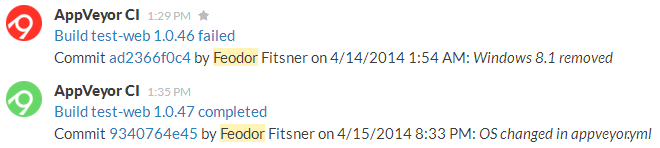
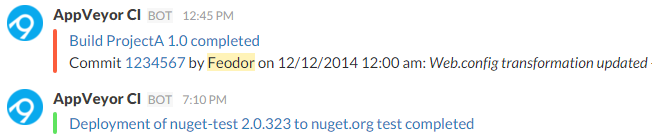
Slack notifications updated

Changed region(s): [[0.0, 0.029, 1.0, 0.5217], [0.0, 0.5217, 1.0, 0.9855]]

diff --git a/NJekyll/site/docs/notifications.md b/NJekyll/site/docs/notifications.md
@@ -7,7 +7,8 @@ title: Build notifications
 
 <!--TOC-->
 
-Build notifications are defined on project level and triggered on build success or fail events. You can configure notification on **Notifications** tab of project settings or in `notifications` section of `appveyor.yml`:
+Build notifications are defined on project level and triggered on build success or fail events.
+You can configure notification on **Notifications** tab of project settings or in `notifications` section of `appveyor.yml`:
 
     notifications:
       - provider: <provider_1>
@@ -138,14 +139,38 @@ Default HipChat message template:
 
 ## Slack
 
-Slack notification nicely differentiates between passed and failed builds by changing color of AppVeyor logo:
+Slack sends notifications as message attachments which allows differentiating successful/failed builds/deployments with color.
 
 ![slack-build](/site/images/docs/notifications/slack-build.png)
 
-### Authentication token
+Slack notifications can be configured to use either *Authentication token* and *channel name* or *Incoming webhook*.
 
-Slack API authentication token can be generated on this page (**Authentication** section): <br/>
+### Authentication token with channel name  
+
+When authentication token is used channel name must be specified. Slack API authentication token can be generated on this page (**Authentication** section): <br/>
 [https://api.slack.com/web](https://api.slack.com/web)
+
+When you specify channel name make sure it starts with `#` sign if it's public channel, for example `#builds`.
+In `appveyor.yml` you need to quote channel name to pass YAML validation, for example:
+
+    - provider: Slack
+      auth_token:
+        secure: AAABBB+CCC==
+      channel: '#channel'
+      
+### Incoming webhook
+
+Slack notifications can be configured to use [Incoming webhook](https://api.slack.com/incoming-webhooks).
+When webhook is used channel name can be omitted as it's encoded into webhook URL.
+
+Follow **incoming webhook integration** link on [Incoming webhooks](https://api.slack.com/incoming-webhooks) page to 
+generate new incoming webhook.
+
+In `appveyor.yml` webhook URL can be set as secure string, for example:
+
+    - provider: Slack
+      incoming_webhook:
+        secure: AAABBB+CCC+DDD==
 
 ### Message template
 
